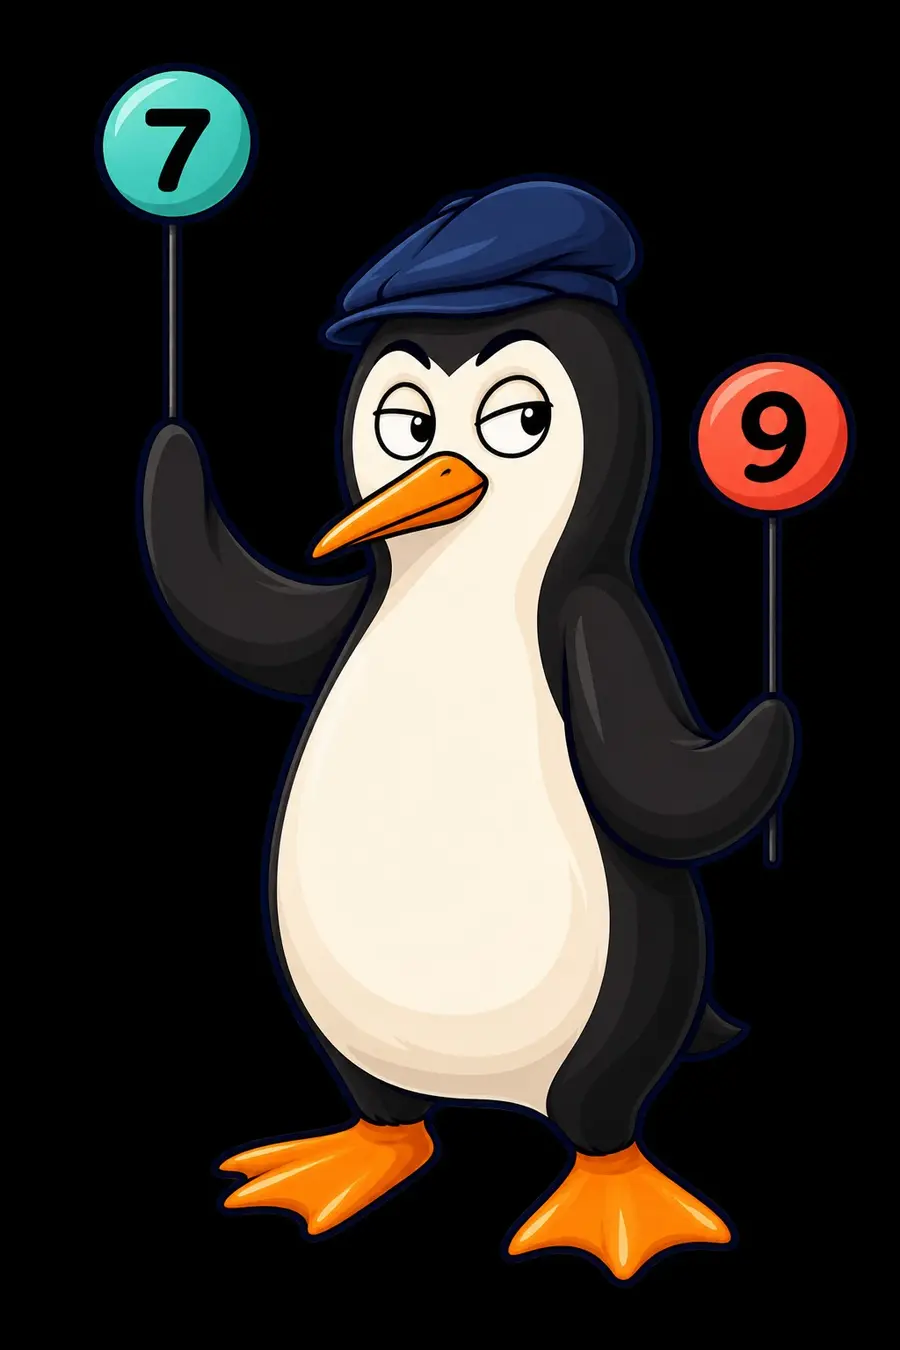
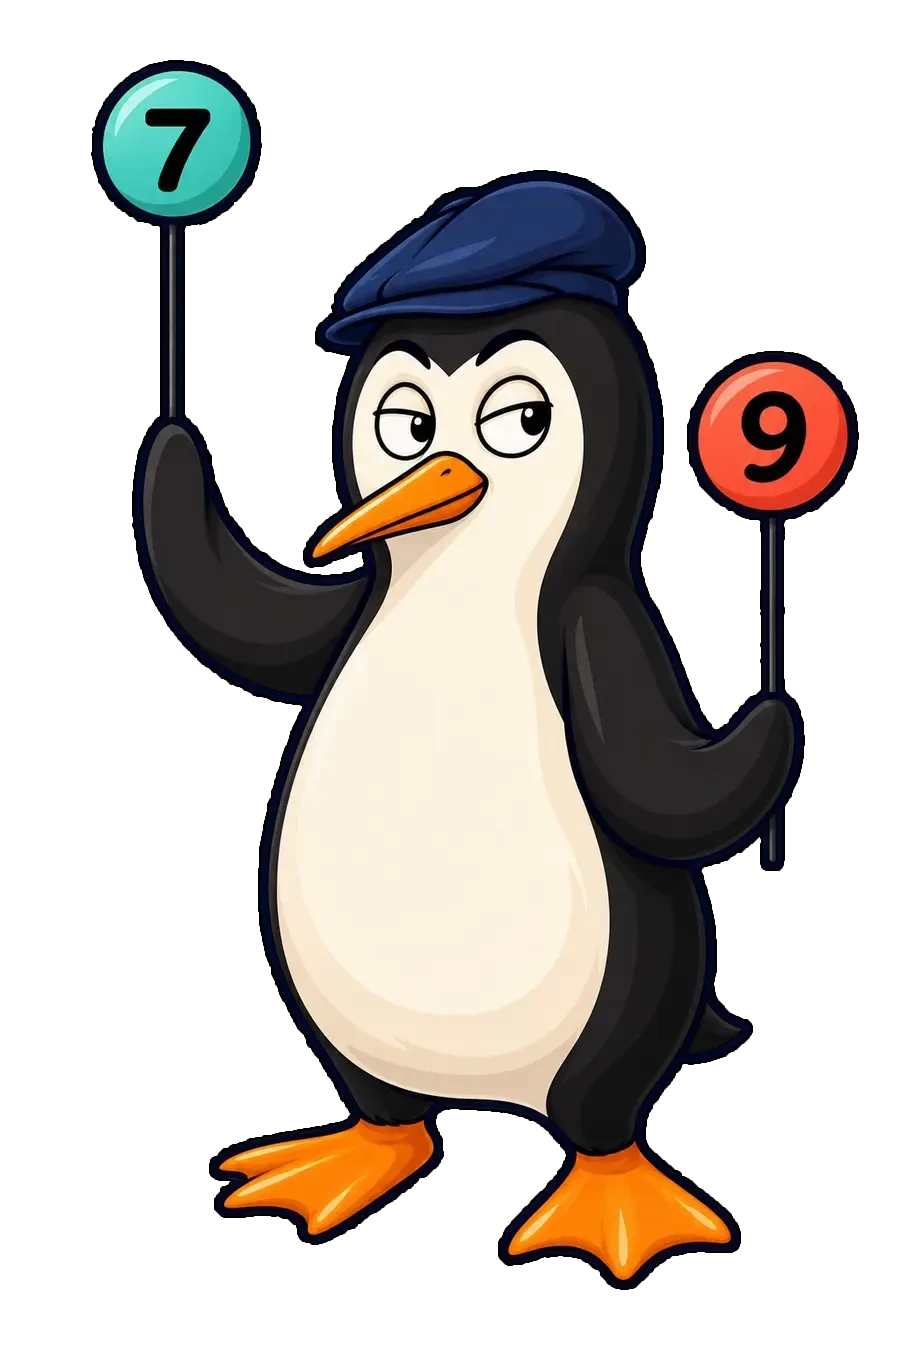
fix(figurer): fjern baggrund bag Øbbe og Divisions-Dennis
- obbe-ovdig.png: hvid baggrund fjernet (alpha, defringe, jordskygge gjort halvgennemsigtig)
- divisions-dennis.webp: sort baggrund fjernet (alpha, sort kontur bevaret)
- styles.css: Øbbe-coachens portræt har ikke længere hvid boks/ramme; tale-glow som drop-shadow
- index.html: cache-bust styles.css

diff --git a/styles.css b/styles.css
@@ -802,14 +802,14 @@ button.lollipop-source-digit.dragging { opacity:.2; cursor:grabbing; animation:n
 /* Øbbe keeps his own row so the keyboard and matrix remain unobstructed. */
 .obbe-coach { display:flex; align-items:center; gap:16px; min-width:0; color:var(--ink); }
 .obbe-drill { margin:0 0 18px; padding:10px 18px; border:2px solid var(--ink); border-radius:18px; background:#f1ecd9; }
-.obbe-portrait { flex:0 0 105px; align-self:stretch; padding:0; overflow:hidden; border:2px solid var(--ink); border-radius:14px; background:white; cursor:pointer; touch-action:manipulation; }
+.obbe-portrait { flex:0 0 105px; align-self:stretch; padding:0; overflow:visible; border:0; border-radius:14px; background:transparent; cursor:pointer; touch-action:manipulation; }
 .obbe-portrait img { display:block; width:100%; height:100%; max-height:130px; object-fit:contain; }
 .obbe-portrait:focus-visible,.obbe-mute:focus-visible { outline:3px solid var(--purple); outline-offset:4px; }
 .obbe-message { min-width:0; flex:1; }
 .obbe-message>strong { font-size:16px; font-weight:900; }
 .obbe-bubble { position:relative; margin:7px 0; padding:10px 14px; border:2px solid var(--ink); border-radius:14px 14px 14px 3px; background:white; font-size:clamp(15px,1.6vw,21px); font-weight:800; line-height:1.3; overflow-wrap:anywhere; }
 .obbe-mute { padding:6px 10px; min-height:36px; border:1px solid #747861; border-radius:8px; background:#fff9; color:var(--ink); font:inherit; font-size:12px; font-weight:700; cursor:pointer; touch-action:manipulation; }
-.obbe-coach.is-speaking .obbe-portrait { box-shadow:0 0 0 3px #d9ae44; }
+.obbe-coach.is-speaking .obbe-portrait img { filter:drop-shadow(0 0 4px #d9ae44) drop-shadow(0 0 2px #d9ae44); }
 .login-drill-team { display:grid; grid-template-columns:minmax(0,1fr) minmax(0,2.4fr) minmax(0,1fr); align-items:center; width:100%; max-width:660px; gap:20px; padding:8px 8px 20px; }
 .login-drill-team .character-frame { aspect-ratio:3/4; background:white; }
 .login-drill-team .character-frame img { object-fit:contain; }

diff --git a/index.html b/index.html
@@ -39,7 +39,7 @@
   <meta name="twitter:description" content="Træn tabeller, brøker og talforståelse med drills, Matematiktårnet og Erling.">
   <meta name="twitter:image" content="https://jacobmatematik.dk/assets/captain-erling-icon-512.png">
   <title>Jacobmatematik – gratis matematikøvelser &amp; spil til folkeskolen</title>
-  <link rel="stylesheet" href="styles.css?v=20261007-home-banners1">
+  <link rel="stylesheet" href="styles.css?v=20261008-bg-obbe-dennis1">
   <link rel="stylesheet" href="login-cinematic.css?v=20260920-guest1">
   <link rel="stylesheet" href="cinematic-theme.css?v=20260924-multiplication-column7">
   <style>
